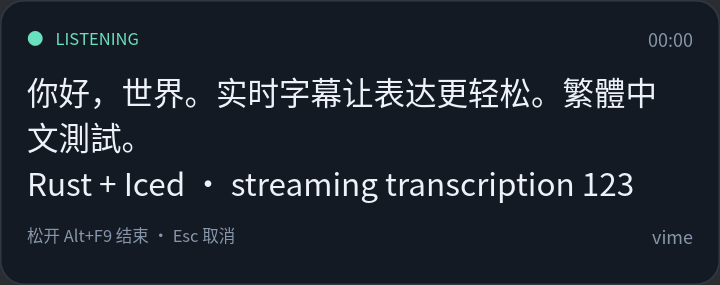
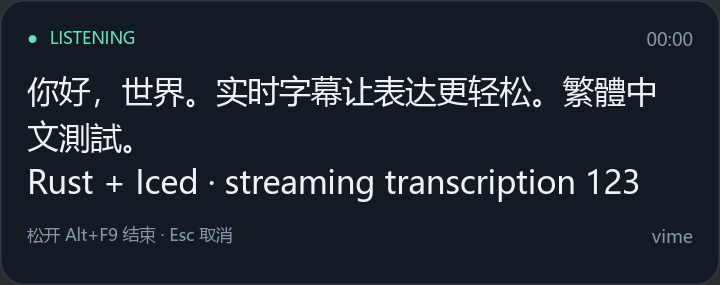
Block new recordings while processing and shorten status notices

diff --git a/src/main.rs b/src/main.rs
@@ -319,20 +319,20 @@ async fn demo(progress: &Progress, controls: &mut UnboundedReceiver<ControlEvent
         }
         match elapsed {
             0..=599 => {}
-            600..=4599 => progress.finish(
+            600..=3599 => progress.finish(
                 UiPhase::Recording,
-                samples[((elapsed - 600) / 1000).min(3) as usize],
+                samples[((elapsed - 600) / 750).min(3) as usize],
                 "松开快捷键结束 · Esc 取消",
             ),
-            4600..=5599 => progress.phase(UiPhase::Finalizing, "正在完成识别…"),
-            5600..=6699 => progress.phase(UiPhase::Delivered, "预览：已复制到剪贴板"),
-            6700..=7399 => progress.idle(),
-            7400..=8499 => progress.finish(
+            3600..=4599 => progress.phase(UiPhase::Finalizing, "正在完成转写 · 暂不能录音"),
+            4600..=5199 => progress.phase(UiPhase::Delivered, "预览：已复制到剪贴板"),
+            5200..=5799 => progress.idle(),
+            5800..=7799 => progress.finish(
                 UiPhase::Recovered,
                 "识别中断，保留已经收到的文字。",
                 "预览：部分结果可能不完整",
             ),
-            8500..=9399 => progress.finish(
+            7800..=9799 => progress.finish(
                 UiPhase::Error,
                 "无法连接识别服务",
                 "预览：请检查服务地址和网络",
@@ -369,6 +369,7 @@ async fn run_live(
                 _ = hide_deadline(hide_at) => { progress.idle(); hide_at = None; },
                 event = controls.recv() => match event {
                     Some(ControlEvent::Start) => {
+                        hotkey.block_new_recordings();
                         progress.start();
                         let result = record_live(config, args.device.as_deref(), controls, progress).await;
                         let recovered = matches!(&result, Ok(Outcome::Recovered { .. }));
@@ -408,11 +409,11 @@ async fn run_live(
                             Ok(Outcome::Restart) => continue 'restart,
                             Err(error) => { tracing::error!(error = %error, "recording failed; ready for next recording"); progress.finish(UiPhase::Error, "无法完成识别", "请检查麦克风或服务连接 · 详情见日志"); },
                         }
-                        hide_at = Some(tokio::time::Instant::now() + Duration::from_millis(if matches!(progress.0.borrow().phase, UiPhase::Recovered | UiPhase::Error) { 4000 } else { 1200 }));
-                        hotkey.reset()?;
+                        hide_at = Some(tokio::time::Instant::now() + Duration::from_millis(if matches!(progress.0.borrow().phase, UiPhase::Recovered | UiPhase::Error) { 2000 } else { 600 }));
                         while let Ok(event) = controls.try_recv() {
                             match event { ControlEvent::Shutdown => break 'restart, ControlEvent::Restart => continue 'restart, _ => {} }
                         }
+                        hotkey.reset()?;
                     },
                     Some(ControlEvent::Shutdown) | None => break 'restart,
                     Some(ControlEvent::Restart) => continue 'restart,
@@ -570,7 +571,7 @@ async fn record_live_inner(
             biased;
             _ = console_interrupt() => return Ok(Outcome::Shutdown),
             event = controls.recv() => match event {
-                Some(ControlEvent::Stop) => { capture.stop()?; progress.phase(UiPhase::Finalizing, "正在完成识别…"); break; },
+                Some(ControlEvent::Stop) => { capture.stop()?; progress.phase(UiPhase::Finalizing, "正在完成转写 · 暂不能录音"); break; },
                 Some(ControlEvent::Cancel) => return Ok(Outcome::Cancelled),
                 Some(ControlEvent::Shutdown) | None => return Ok(Outcome::Shutdown),
                 Some(ControlEvent::Restart) => return Ok(Outcome::Restart),
@@ -625,7 +626,7 @@ async fn record_live_inner(
         }
     }
     tracing::info!("waiting for final text");
-    progress.phase(UiPhase::Finalizing, "正在完成识别…");
+    progress.phase(UiPhase::Finalizing, "正在完成转写 · 暂不能录音");
     wait_final(
         &mut connection,
         controls,
@@ -772,7 +773,7 @@ mod tests {
         assert_eq!(ui_rx.borrow().text, "你好，");
         assert_eq!(ui_rx.borrow().phase, UiPhase::Recording);
         connection.commit().await.unwrap();
-        progress.phase(UiPhase::Finalizing, "正在完成识别…");
+        progress.phase(UiPhase::Finalizing, "正在完成转写 · 暂不能录音");
         let (_tx, mut controls) = tokio::sync::mpsc::unbounded_channel();
         let result = wait_final(
             &mut connection,
@@ -791,6 +792,27 @@ mod tests {
         assert_eq!(ui_rx.borrow().phase, UiPhase::Finalizing);
         progress.idle();
         assert!(ui_rx.borrow().text.is_empty());
+        task.abort();
+    }
+
+    #[tokio::test]
+    async fn starts_during_finalization_are_discarded_instead_of_queued() {
+        let (mut connection, task) = connect_mock(Scenario::Delayed).await;
+        connection.append(&[100; 480]).await.unwrap();
+        connection.commit().await.unwrap();
+        let (tx, mut controls) = tokio::sync::mpsc::unbounded_channel();
+        for _ in 0..3 {
+            tx.send(ControlEvent::Start).unwrap();
+        }
+        let mut received = ReceivedText::default();
+        let outcome = wait_final(&mut connection, &mut controls, 1000, &mut received, None)
+            .await
+            .unwrap();
+        assert!(matches!(outcome, Outcome::Final(_)));
+        assert!(
+            controls.try_recv().is_err(),
+            "busy-time start must not become a future recording"
+        );
         task.abort();
     }
 

diff --git a/src/platform.rs b/src/platform.rs
@@ -96,8 +96,16 @@ pub mod hotkey {
         thread_id: u32,
         #[cfg(windows)]
         resets: std::sync::mpsc::Sender<std::sync::mpsc::SyncSender<()>>,
+        #[cfg(windows)]
+        accept_starts: std::sync::Arc<std::sync::atomic::AtomicBool>,
     }
     impl HotkeyListener {
+        /// Keep stop/cancel working while refusing new recordings until reset.
+        pub fn block_new_recordings(&self) {
+            #[cfg(windows)]
+            self.accept_starts
+                .store(false, std::sync::atomic::Ordering::Relaxed);
+        }
         pub fn reset(&self) -> Result<()> {
             #[cfg(windows)]
             {
@@ -249,6 +257,7 @@ pub mod hotkey {
             held: bool,
             active: bool,
             sender: mpsc::UnboundedSender<ControlEvent>,
+            accept_starts: std::sync::Arc<std::sync::atomic::AtomicBool>,
         }
         thread_local! { static STATE: RefCell<Option<State>> = const { RefCell::new(None) }; }
         fn is_modifier(key: u32, expected: u32) -> bool {
@@ -287,7 +296,9 @@ pub mod hotkey {
                                 if matches!(s.mode, HotkeyMode::Toggle) && s.active {
                                     s.active = false;
                                     let _ = s.sender.send(ControlEvent::Stop);
-                                } else if !s.active {
+                                } else if !s.active
+                                    && s.accept_starts.load(std::sync::atomic::Ordering::Relaxed)
+                                {
                                     s.active = true;
                                     let _ = s.sender.send(ControlEvent::Start);
                                 }
@@ -308,6 +319,8 @@ pub mod hotkey {
             let sender = external.unwrap_or(sender);
             let (ready_tx, ready_rx) = sync::sync_channel(1);
             let (reset_tx, reset_rx) = sync::channel::<sync::SyncSender<()>>();
+            let accept_starts = std::sync::Arc::new(std::sync::atomic::AtomicBool::new(true));
+            let hook_accept_starts = accept_starts.clone();
             let thread = std::thread::spawn(move || unsafe {
                 // Force creation of the message queue before publishing the thread id.
                 let mut message: MSG = std::mem::zeroed();
@@ -320,6 +333,7 @@ pub mod hotkey {
                         held: false,
                         active: false,
                         sender,
+                        accept_starts: hook_accept_starts,
                     })
                 });
                 let hook = SetWindowsHookExW(
@@ -353,6 +367,9 @@ pub mod hotkey {
                             STATE.with(|s| {
                                 if let Some(state) = s.borrow_mut().as_mut() {
                                     state.active = false;
+                                    state
+                                        .accept_starts
+                                        .store(true, std::sync::atomic::Ordering::Relaxed);
                                 }
                             });
                             let _ = ack.send(());
@@ -381,6 +398,7 @@ pub mod hotkey {
                     thread: Some(thread),
                     thread_id,
                     resets: reset_tx,
+                    accept_starts,
                 }),
                 Err(error) => {
                     let _ = thread.join();

diff --git a/tests/windows_api.rs b/tests/windows_api.rs
@@ -212,6 +212,7 @@ fn platform_send_input_probe() {
                     .unwrap(),
                 Some(ControlEvent::Start)
             );
+            listener.block_new_recordings();
             // A repeated keydown must not trigger another Start or toggle off.
             inject_keys(&[(VK_F9, false)]);
             assert!(
@@ -237,10 +238,31 @@ fn platform_send_input_probe() {
             if toggle {
                 inject_keys(&[(VK_F9, true), (VK_MENU, true)]);
             }
+            // While finalizing, a fresh full key press is ignored at the hook.
+            inject_keys(&[
+                (VK_MENU, false),
+                (VK_F9, false),
+                (VK_F9, true),
+                (VK_MENU, true),
+            ]);
+            assert!(
+                tokio::time::timeout(Duration::from_millis(150), listener.events.recv())
+                    .await
+                    .is_err()
+            );
+            listener.reset().unwrap();
+            inject_keys(&[(VK_MENU, false), (VK_F9, false)]);
+            assert_eq!(
+                tokio::time::timeout(Duration::from_secs(3), listener.events.recv())
+                    .await
+                    .unwrap(),
+                Some(ControlEvent::Start)
+            );
+            inject_keys(&[(VK_F9, true), (VK_MENU, true)]);
             drop(listener);
         }
     });
-    println!("PASS: client hotkey listener handles push-to-talk, toggle, release, and repeated keydown via SendInput");
+    println!("PASS: busy-time starts are blocked until reset; client hotkey listener handles push-to-talk, toggle, release, and repeated keydown via SendInput");
 }
 
 #[test]

diff --git a/src/overlay.rs b/src/overlay.rs
@@ -222,7 +222,7 @@ pub fn view_snapshot<'a>(
         UiPhase::Idle => ("READY", Color::from_rgb8(135, 150, 169)),
         UiPhase::Connecting => ("CONNECTING", Color::from_rgb8(156, 175, 255)),
         UiPhase::Recording => ("LISTENING", Color::from_rgb8(106, 225, 190)),
-        UiPhase::Finalizing => ("FINISHING", Color::from_rgb8(156, 175, 255)),
+        UiPhase::Finalizing => ("PROCESSING", Color::from_rgb8(255, 151, 151)),
         UiPhase::Delivered => ("DONE", Color::from_rgb8(106, 225, 190)),
         UiPhase::Recovered => ("RECOVERED", Color::from_rgb8(245, 199, 112)),
         UiPhase::Error => ("NEEDS ATTENTION", Color::from_rgb8(255, 151, 151)),

diff --git a/tests/overlay_render.rs b/tests/overlay_render.rs
@@ -76,7 +76,7 @@ fn screenshots_cover_statuses_scales_and_long_transcripts() {
             "finalizing",
             UiPhase::Finalizing,
             MIXED.to_owned(),
-            "正在完成识别…",
+            "正在完成转写 · 暂不能录音",
         ),
         (
             "delivered",

diff --git a/docs/OVERLAY.md b/docs/OVERLAY.md
@@ -1,6 +1,6 @@
 # Subtitle overlay and tray
 
-The Windows desktop client runs in the background. A compact subtitle card appears while recording, follows the newest text, and closes after delivery. Closing the card leaves the client running. The tray provides restart, an overlay toggle and stop. Restart cancels a pending recording and recreates the transcription worker and hotkey with the startup configuration. Stop cancels pending work and exits the program. Restart the program to load configuration changes.
+The Windows desktop client runs in the background. A compact subtitle card appears while recording and follows the newest text. Success hides after 0.6 seconds; recovery and error notices remain for 2 seconds. Processing is shown in red, and the hotkey refuses new recordings until final transcription and delivery finish. Busy-time key presses are discarded. Closing the card leaves the client running. The tray provides restart, an overlay toggle and stop. Restart cancels a pending recording and recreates the transcription worker and hotkey with the startup configuration. Stop cancels pending work and exits the program. Restart the program to load configuration changes.
 
 Configure the overlay in `vime.toml`:
 
@@ -10,7 +10,7 @@ enabled = true
 font_family = "Microsoft YaHei UI"
 ```
 
-The font must be installed on the machine. An unavailable family produces a warning and uses system sans-serif. Iced's advanced shaping handles mixed Chinese/English text and system fallback; vime does not bundle fonts. `--no-window` runs without the subtitle card; `--no-tray` disables the tray. Combining them keeps the existing keyboard-driven background workflow.
+The font must be installed on the machine. An unavailable family produces a warning and uses system sans-serif. Iced's advanced shaping handles mixed Chinese/English text and system fallback; vime does not bundle fonts. `--no-window` runs without the subtitle card; `--no-tray` disables the tray. Combining them runs only the keyboard-driven background engine without initializing the GUI.
 
 ## Review the interface
 

diff --git a/README.md b/README.md
@@ -76,7 +76,7 @@ status = os.environ["VIME_TRANSCRIPT_STATUS"]  # final 或 recovered
 
 这是当前用户会话中的后台程序，**不要安装成 Windows Service**。服务的 Session 0 无法替代用户的热键和剪贴板会话。需要自启动时，用启动文件夹或“仅当用户登录时运行”的计划任务，使用可执行文件与配置文件的绝对路径，不需要常规管理员权限。
 
-默认以无控制台后台方式运行，空闲时只有托盘图标；按快捷键录音时，屏幕底部中央出现只读字幕卡片。成功后短暂显示交付状态，恢复部分文字与失败会保留更久，随后回到后台。需要终端调试时加 `--foreground`，通过 Ctrl+C 停止；后台运行可执行 `.\vime.exe --config .\vime.toml --stop` 正常退出，也可在任务管理器结束 `vime.exe`。程序单实例运行，重复启动会报错。日志默认写入配置文件旁的 `vime.log`，可用 `--log-file PATH` 指定。Esc 取消正在处理的录音，不交付文字。
+默认以无控制台后台方式运行，空闲时只有托盘图标；按快捷键录音时，屏幕底部中央出现只读字幕卡片。成功提示在 0.6 秒后隐藏，部分恢复和报错提示保留 2 秒。等待最终转写及交付期间显示红色处理中状态，新的录音快捷键会被忽略，不进入队列。需要终端调试时加 `--foreground`，通过 Ctrl+C 停止；后台运行可执行 `.\vime.exe --config .\vime.toml --stop` 正常退出，也可在任务管理器结束 `vime.exe`。程序单实例运行，重复启动会报错。日志默认写入配置文件旁的 `vime.log`，可用 `--log-file PATH` 指定。Esc 取消正在处理的录音，不交付文字。
 
 ## 字幕与托盘
 
